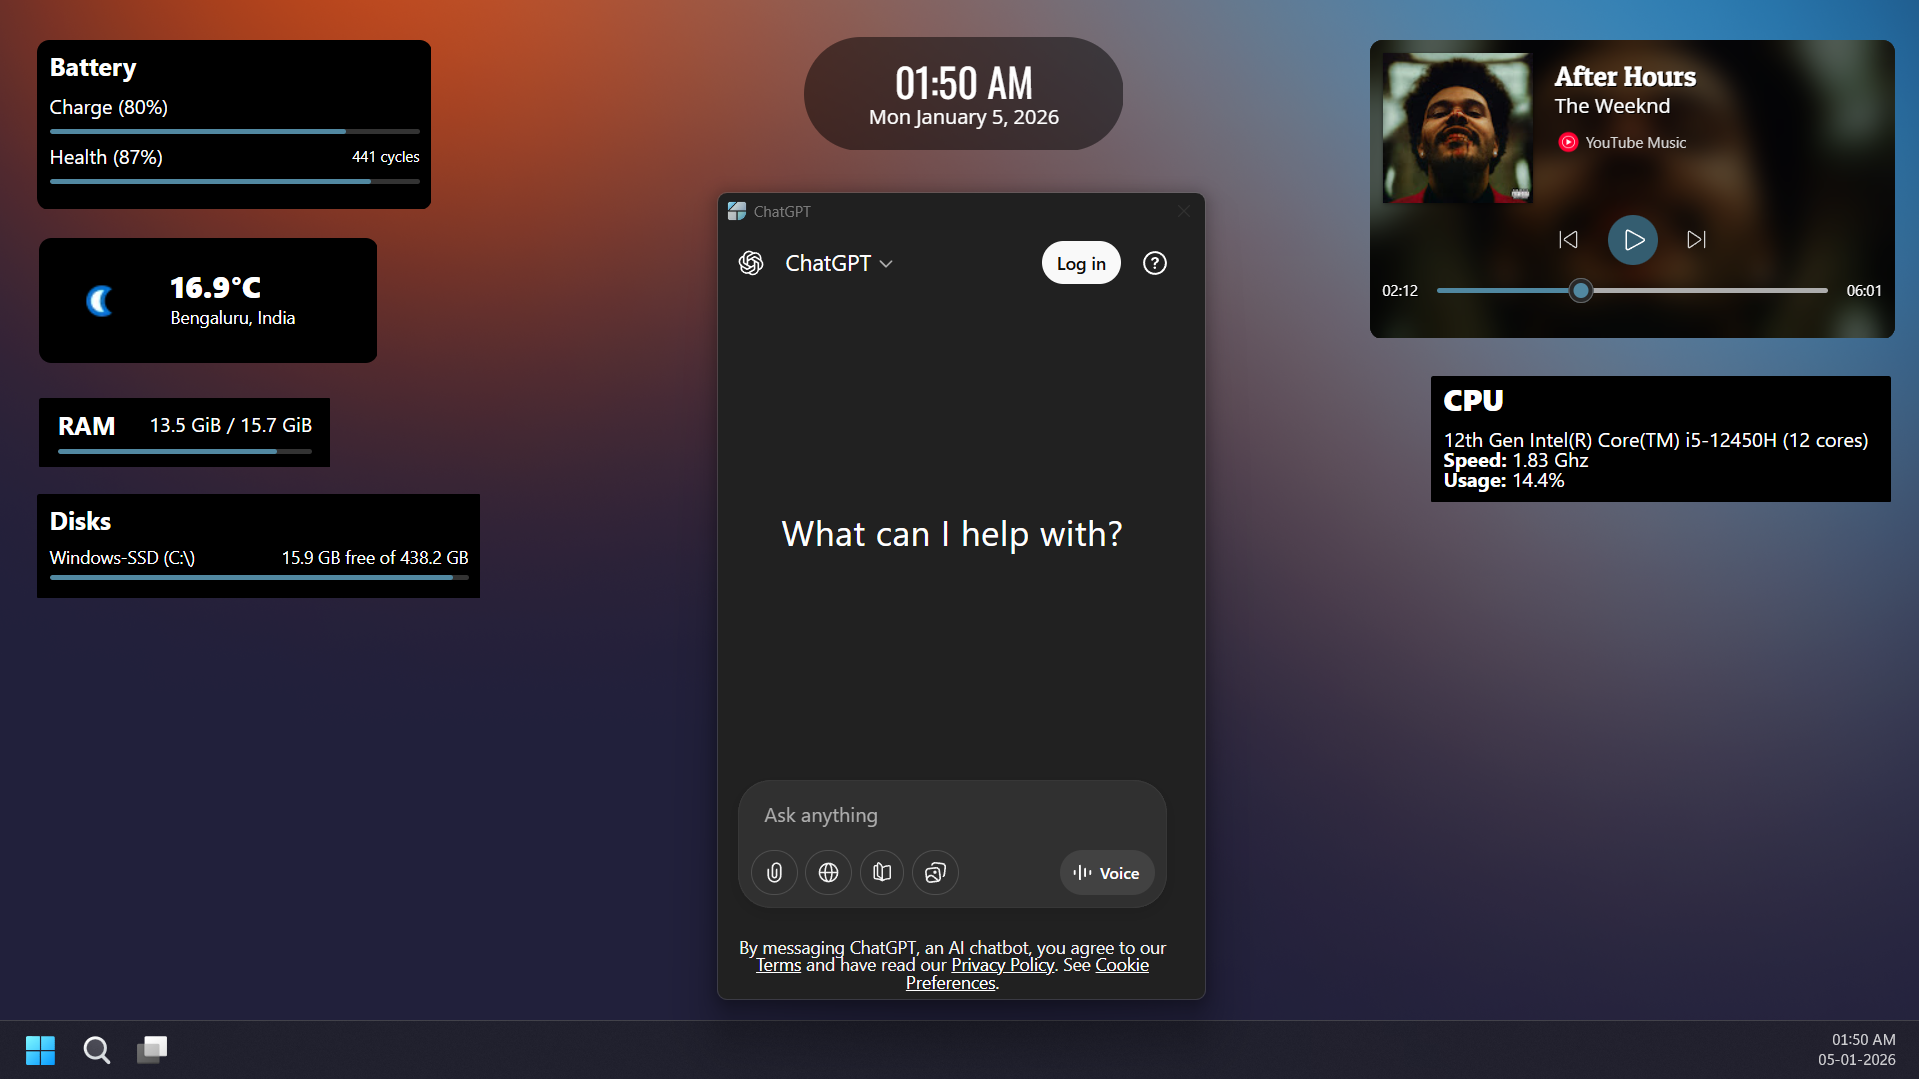
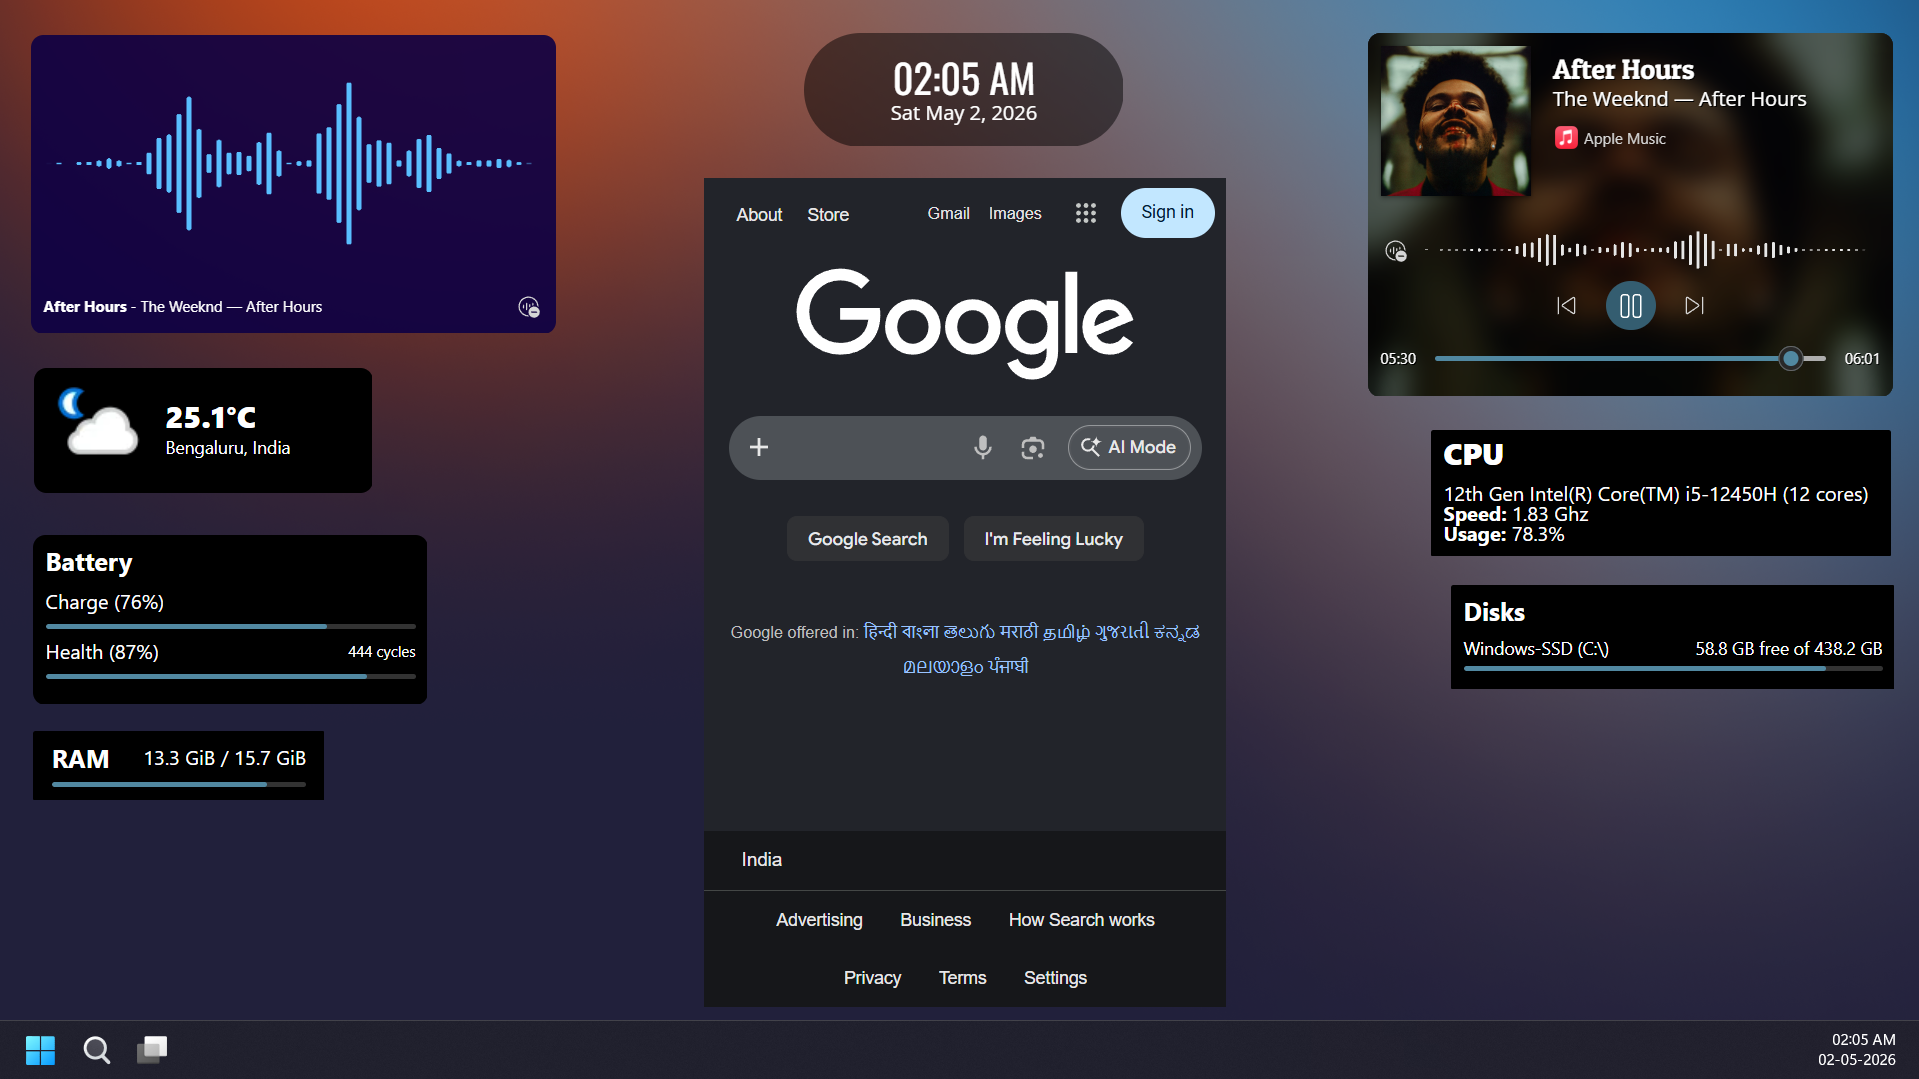
added visualizer

diff --git a/components/widgets-gallery.tsx b/components/widgets-gallery.tsx
@@ -26,6 +26,12 @@ const widgets = [
     image: "/templates/media/thumb.png",
   },
   {
+    name: "Audio Visualizer",
+    description:
+      "A widget that visualizes the any currently playing media in the form of bars or waveforms.",
+    image: "/templates/visualizer/thumb.png",
+  },
+  {
     name: "Weather",
     description:
       "A widget that displays current weather information for your current location.",
